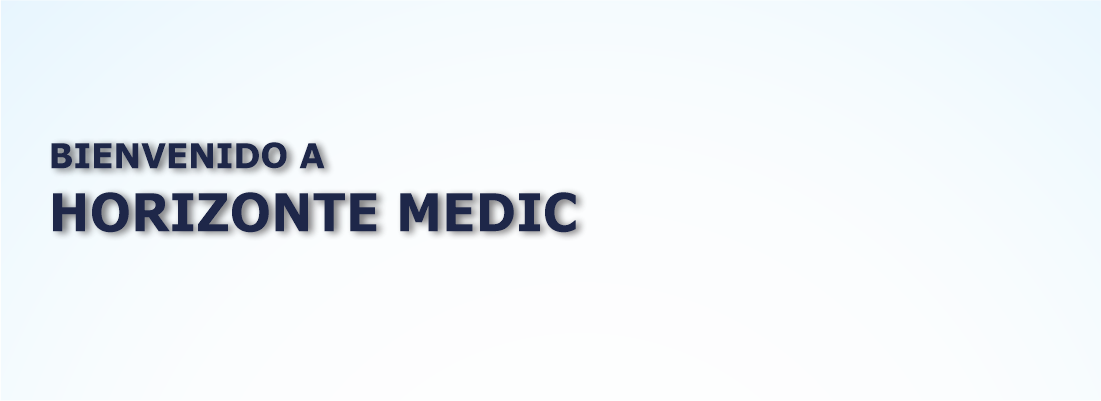
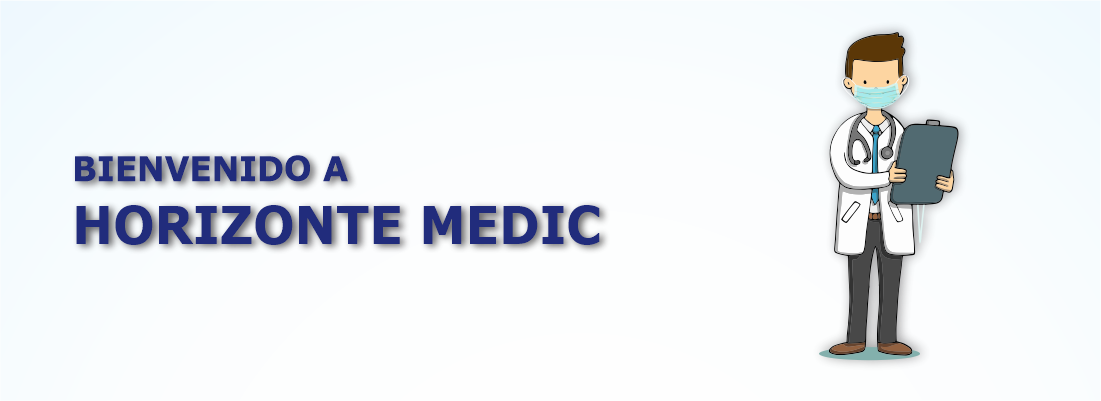
Se sube a CPanel

Changed region(s): [[0.0309, 0.3292, 0.5559, 0.6284], [0.7411, 0.0599, 0.8955, 0.9277]]

diff --git a/css/header.css b/css/header.css
@@ -63,6 +63,7 @@
     /* background-color: #fff; */
     width: 100%;
     top: 0rem;
+    margin-top: 1rem;
 }
 
 .barra .contenedor {
@@ -122,22 +123,6 @@
     padding: 10px 0;
 }
 
-.header-contenido p {
-    color: #234187;
-    font-size: 2.5rem;
-    text-transform: uppercase;
-    max-width: 50rem;
-    font-family: 'Saira Condensed', sans-serif;
-}
-
-.header-contenido h1 {
-    color: #234187;
-    font-size: 5rem;
-    text-transform: uppercase;
-    max-width: 50rem;
-    font-family: 'Saira Condensed', sans-serif;
-}
-
 @media screen and (max-width: 950px) {
     .navegacion {
         flex: 0 0 11rem;
@@ -152,6 +137,10 @@
     .navegacion ul li.nav-r {
         display: initial;
     }
+}
+
+.header-contenido {
+    margin-top: 4rem;
 }
 
 .header-contenido .contenedor {

diff --git a/css/nosotros.css b/css/nosotros.css
@@ -17,19 +17,22 @@
     margin: 0 auto;
 }
 
-@media screen and (min-width: 800px) {
-    .nosotros-p {
-        max-width: 1100px;
-        margin: 0 auto;
-    }
-}
-
 .nosotros {
     display: flex;
     flex-direction: column;
     justify-content: center;
     align-items: center;
     margin: 1rem 0;
+}
+
+@media screen and (max-width: 950px) {
+    .nosotros {
+        margin-top: 0rem;
+    }
+    .nosotros-p {
+        max-width: 1100px;
+        margin: 0 auto;
+    }
 }
 
 .nosotros-h2 h2 {

diff --git a/js/slider-controller.js b/js/slider-controller.js
@@ -105,6 +105,6 @@ btnLeft.addEventListener('click', function() {
     prev();
 })
 
-// setInterval(function() {
-//     next();
-// }, 8000);
+setInterval(function() {
+    next();
+}, 6000);
